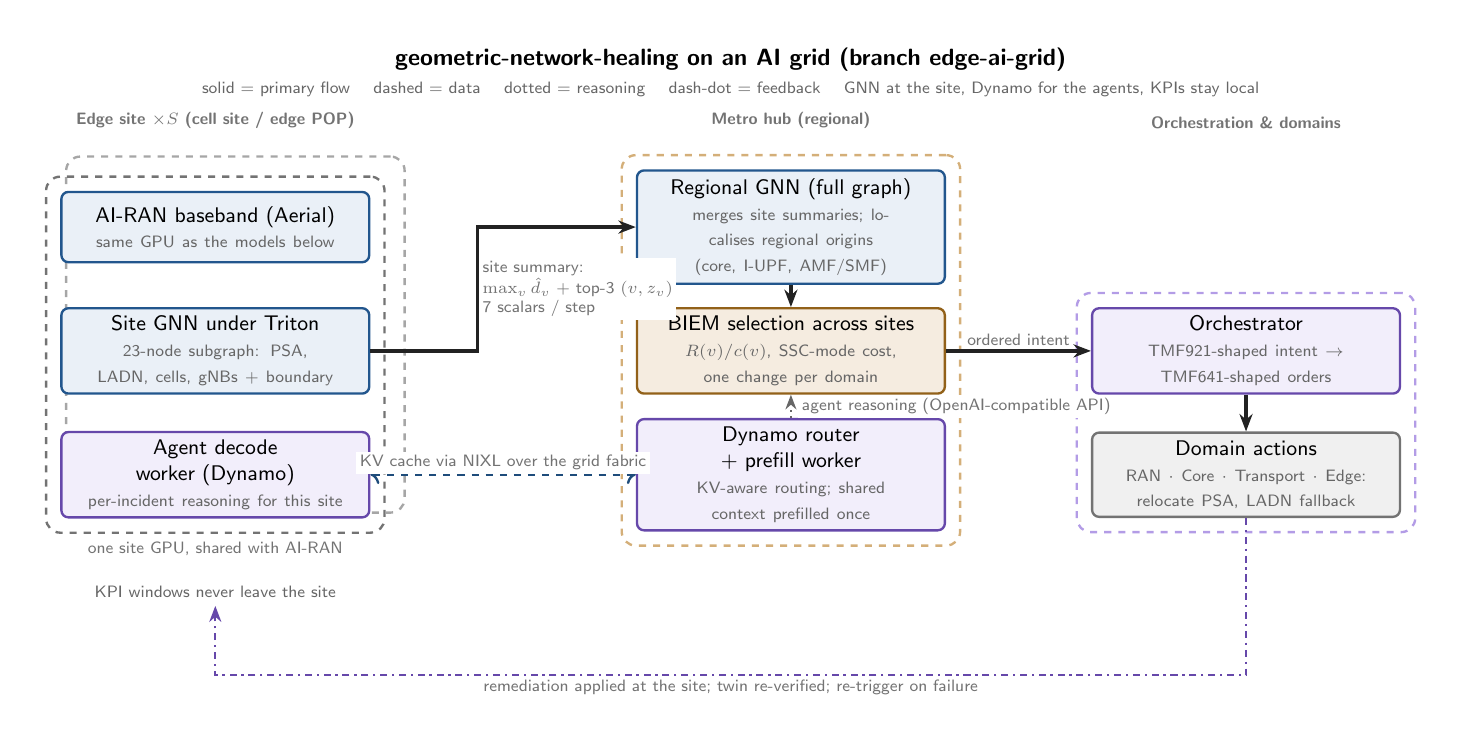
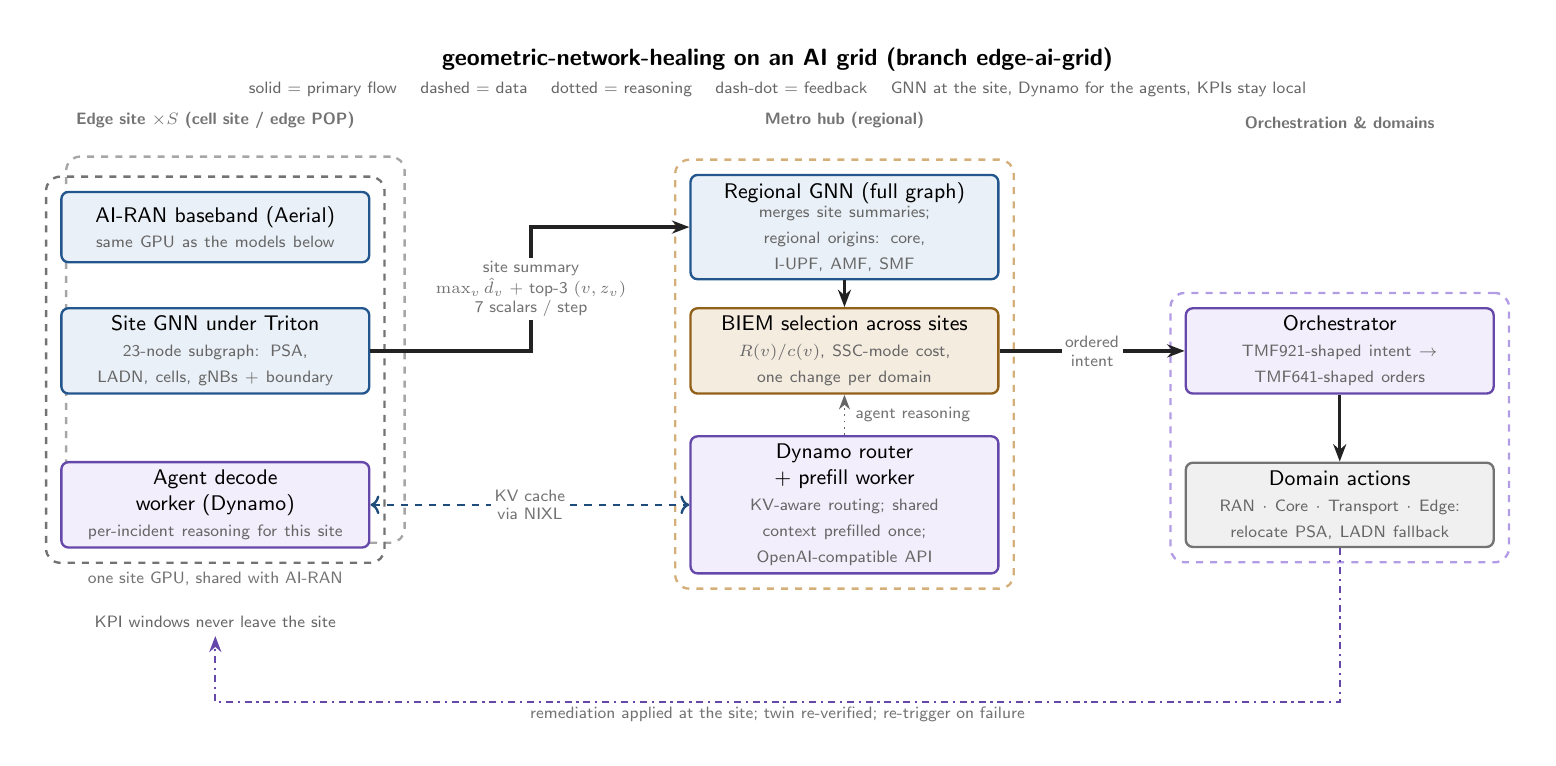
AI-grid diagram: remove label overlaps, widen column gaps

Changed region(s): [[0.0308, 0.0622, 0.985, 0.8403], [0.1539, 0.9026, 0.8618, 0.9648], [0.7695, 0.1556, 0.9234, 0.1867]]

diff --git a/docs/design/ai_grid.tex b/docs/design/ai_grid.tex
@@ -6,34 +6,34 @@
 \begin{tikzpicture}[arch, x=1cm, y=1cm]
 % Three columns: edge site (x=0), metro hub (x=7.5), orchestration (x=13.5). Row pitch 1.85 (box 1.05 + sm 0.8).
 \node[lane, anchor=south, text width=5cm, align=center] at (0, 1.35)    {Edge site $\times S$ (cell site / edge POP)};
-\node[lane, anchor=south, text width=5cm, align=center] at (8.6, 1.35)  {Metro hub (regional)};
-\node[lane, anchor=south, text width=5cm, align=center] at (15.4, 1.35) {Orchestration \& domains};
+\node[lane, anchor=south, text width=5cm, align=center] at (9.4, 1.35)  {Metro hub (regional)};
+\node[lane, anchor=south, text width=5cm, align=center] at (16.8, 1.35) {Orchestration \& domains};
 
 % ---- edge site card (one shown, ghost behind suggests S sites)
 \node[learn, minimum width=4.6cm, text width=4.2cm] (ran) at (0, 0)     {AI-RAN baseband (Aerial)\\ \sub{same GPU as the models below}};
 \node[learn, minimum width=4.6cm, text width=4.2cm] (sgnn) at (0, -1.85) {Site GNN under Triton\\ \sub{23-node subgraph: PSA, LADN, cells, gNBs + boundary}};
-\node[exec,  minimum width=4.6cm, text width=4.2cm] (sdec) at (0, -3.7)  {Agent decode worker (Dynamo)\\ \sub{per-incident reasoning for this site}};
-\node[note, text width=4.4cm] (kpi) at (0, -5.45) {KPI windows never leave the site};
+\node[exec,  minimum width=4.6cm, text width=4.2cm] (sdec) at (0, -4.15)  {Agent decode worker (Dynamo)\\ \sub{per-incident reasoning for this site}};
+\node[note, text width=4.4cm] (kpi) at (0, -5.9) {KPI windows never leave the site};
 
 % ---- metro hub
-\node[learn, minimum width=4.6cm, text width=4.2cm] (rgnn) at (8.6, 0)     {Regional GNN (full graph)\\ \sub{merges site summaries; localises regional origins (core, I-UPF, AMF/SMF)}};
-\node[biz,   minimum width=4.6cm, text width=4.2cm] (biem) at (8.6, -1.85) {BIEM selection across sites\\ \sub{$R(v)/c(v)$, SSC-mode cost, one change per domain}};
-\node[exec,  minimum width=4.6cm, text width=4.2cm] (dyn)  at (8.6, -3.7)  {Dynamo router + prefill worker\\ \sub{KV-aware routing; shared context prefilled once}};
+\node[learn, minimum width=4.6cm, text width=4.2cm] (rgnn) at (9.4, 0)     {Regional GNN (full graph)\\ \sub{merges site summaries;\\ regional origins: core, I-UPF, AMF, SMF}};
+\node[biz,   minimum width=4.6cm, text width=4.2cm] (biem) at (9.4, -1.85) {BIEM selection across sites\\ \sub{$R(v)/c(v)$, SSC-mode cost, one change per domain}};
+\node[exec,  minimum width=4.6cm, text width=4.2cm] (dyn)  at (9.4, -4.15)  {Dynamo router + prefill worker\\ \sub{KV-aware routing; shared context prefilled once; OpenAI-compatible API}};
 
 % ---- orchestration
-\node[exec, minimum width=4.6cm, text width=4.2cm] (orc) at (15.4, -1.85) {Orchestrator\\ \sub{TMF921-shaped intent $\to$ TMF641-shaped orders}};
-\node[base, minimum width=4.6cm, text width=4.2cm] (dom) at (15.4, -3.7)  {Domain actions\\ \sub{RAN $\cdot$ Core $\cdot$ Transport $\cdot$ Edge: relocate PSA, LADN fallback}};
+\node[exec, minimum width=4.6cm, text width=4.2cm] (orc) at (16.8, -1.85) {Orchestrator\\ \sub{TMF921-shaped intent $\to$ TMF641-shaped orders}};
+\node[base, minimum width=4.6cm, text width=4.2cm] (dom) at (16.8, -4.15)  {Domain actions\\ \sub{RAN $\cdot$ Core $\cdot$ Transport $\cdot$ Edge: relocate PSA, LADN fallback}};
 
 % ---- primary flows
-\draw[flow-a] (sgnn.east) -- ++(1.6,0) -- ++(0,1.85) node[eq, pos=0.5, right, align=left] {site summary:\\ $\max_v \hat d_v$ + top-3 $(v,z_v)$\\ 7 scalars / step} -- (rgnn.west);
+\draw[flow-a] (sgnn.east) -- ++(2.4,0) -- ++(0,1.85) node[eq, pos=0.5, align=center] {site summary\\ $\max_v \hat d_v$ + top-3 $(v,z_v)$\\ 7 scalars / step} -- (rgnn.west);
 \draw[flow-a] (rgnn) -- (biem);
-\draw[flow-a] (biem) -- (orc) node[eq, midway, above] {ordered intent};
+\draw[flow-a] (biem) -- (orc) node[eq, midway, align=center] {ordered\\ intent};
 \draw[flow-a] (orc) -- (dom);
 % ---- agents (dotted = reasoning / substrate), KV transfer (dashed = data)
-\draw[flow-c] (dyn) -- (biem) node[eq, midway, right, xshift=1mm] {agent reasoning (OpenAI-compatible API)};
-\draw[flow-b, <->] (sdec) -- (dyn) node[eq, midway, above] {KV cache via NIXL over the grid fabric};
+\draw[flow-c] (dyn) -- (biem) node[eq, midway, right, xshift=1mm] {agent reasoning};
+\draw[flow-b, <->] (sdec) -- (dyn) node[eq, midway, align=center] {KV cache\\ via NIXL};
 % ---- feedback: remediation lands at the site (dash-dot)
-\draw[flow-d] (dom.south) -- ++(0,-2.35) -- ++(-15.4,0) node[eq, pos=0.5, below] {remediation applied at the site; twin re-verified; re-trigger on failure} -- (kpi.south);
+\draw[flow-d] (dom.south) -- ++(0,-2.3) -- ++(-16.8,0) node[eq, pos=0.5, below] {remediation applied at the site; twin re-verified; re-trigger on failure} -- (kpi.south);
 
 \begin{scope}[on background layer]
 \node[draw=black!35, dashed, rounded corners=6pt, line width=\wRegular, fit=(ran)(sdec), inner sep=6pt, xshift=3mm, yshift=3mm] {};
@@ -42,7 +42,7 @@
 \node[draw=cBiz!60, dashed, rounded corners=6pt, line width=\wRegular, fit=(rgnn)(dyn), inner sep=6pt] {};
 \node[draw=cExec!60, dashed, rounded corners=6pt, line width=\wRegular, fit=(orc)(dom), inner sep=6pt] {};
 \end{scope}
-\node[font=\sffamily\bfseries] at (7.7, 2.5) {geometric-network-healing on an AI grid (branch edge-ai-grid)};
-\node[note] at (7.7, 2.05) {solid = primary flow \quad dashed = data \quad dotted = reasoning \quad dash-dot = feedback \quad GNN at the site, Dynamo for the agents, KPIs stay local};
+\node[font=\sffamily\bfseries] at (8.4, 2.5) {geometric-network-healing on an AI grid (branch edge-ai-grid)};
+\node[note] at (8.4, 2.05) {solid = primary flow \quad dashed = data \quad dotted = reasoning \quad dash-dot = feedback \quad GNN at the site, Dynamo for the agents, KPIs stay local};
 \end{tikzpicture}
 \end{document}
